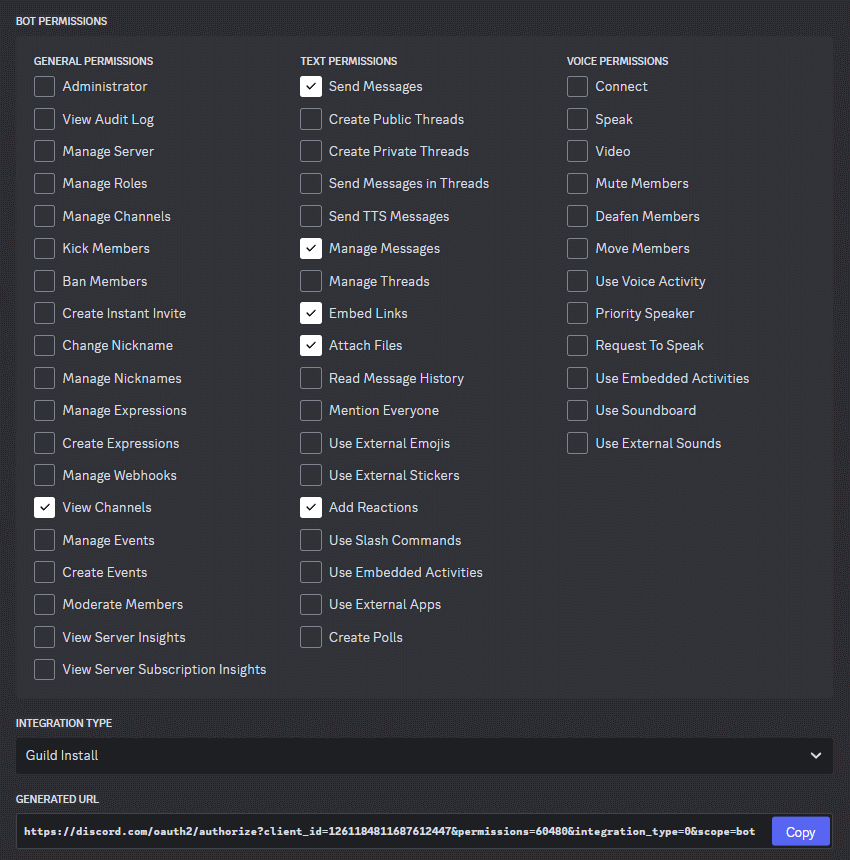
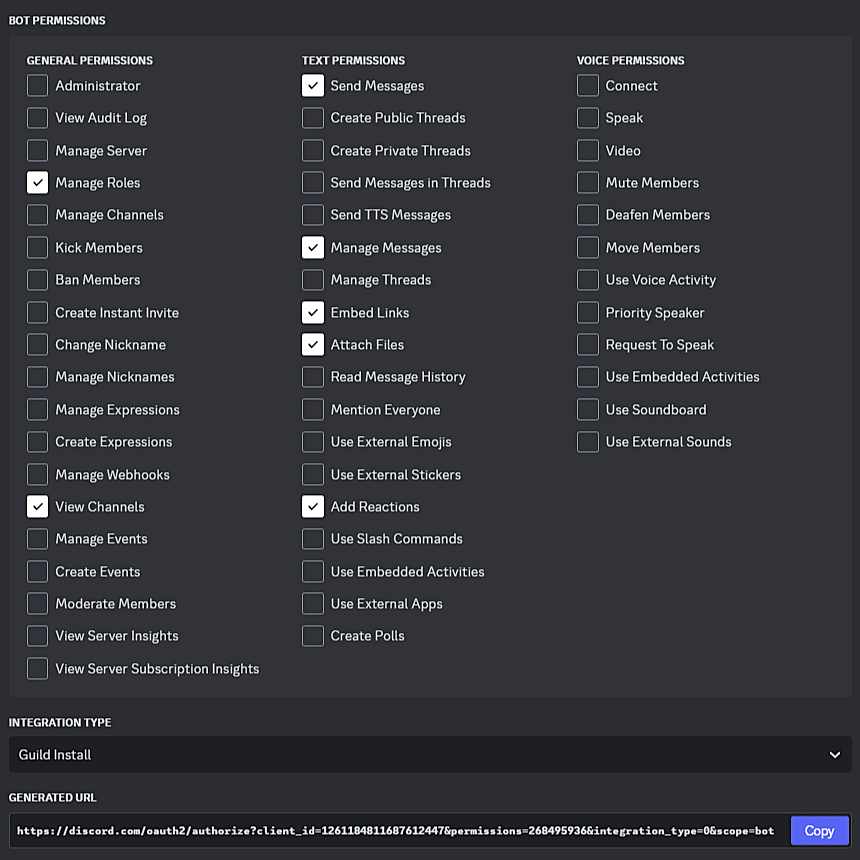
Finished discord bot rewards feature

diff --git a/client/discord/src/commons.js b/client/discord/src/commons.js
@@ -213,7 +213,7 @@ export function players($) {
       else { line += '        '; }
       const playerAlias = aliases.findByName(entry.name);
       if (playerAlias) { line += ' @' + playerAlias.discordid; }
-      result.push(line);
+      result.push(line.trim());
     });
     result = util.chunkStringArray(result);
     result = result.map(function(text) {
@@ -262,16 +262,98 @@ export function alias($) {
   }
 }
 
-export async function evaluateRewards(context, httptool, rewards, instance, message) {
-  const [baseurl, now] = [context.config.SERVER_URL, Date.now()];
-  const atfrom = now - 3600000;
-  const atto = now;
-  const result = await Promise.all([
-    httptool.getJson(pstats.queryLastEvent(instance, atfrom), baseurl),
-    httptool.getJson(pstats.queryEvents(instance, atfrom, atto), baseurl)]);
-  console.log(JSON.stringify(result));
-  util.reactSuccess(message);
+/* eslint-disable max-lines-per-function */
+/* eslint-disable max-depth */
+export async function evaluateRewards(context, httptool, aliases, rewards, instance, message) {
+  const [now, baseurl, prelog] = [Date.now(), context.config.SERVER_URL, '`' + instance + '` '];
+  let schemes = rewards.list();
+  if (schemes.length === 0) return;
+  util.reactWait(message);
+  const [membersMap, roleMap, activityMap] = [{}, {}, {}];
+  const allMembers = await message.guild.members.fetch();  // Fetch all members first to populate cache
+  allMembers.forEach(function(member) { membersMap[member.id] = member; });
+  for (const scheme of schemes) {  // Gather roles and thier members by snowflake
+    if (!cutil.hasProp(roleMap, scheme.snowflake)) {
+      await cutil.sleep(1000);
+      const role = await message.guild.roles.fetch(scheme.snowflake);
+      let schemeRole = null;
+      if (role) {
+        schemeRole = { role: role };
+        schemeRole.orig = role.members.map(function(member) { return member.id; });
+        schemeRole.members = [...schemeRole.orig];
+      } else {
+        message.channel.send(prelog + '❗ Role `@' + scheme.roleid + '` not found');
+      }
+      roleMap[scheme.snowflake] = schemeRole;
+    }
+  }
+  for (const snowflake of Object.keys(roleMap)) {  // Delete invalid roles
+    if (!roleMap[snowflake]) { delete roleMap[snowflake]; }
+  }
+  schemes = schemes.filter(function(scheme) {  // Remove schemes with invalid role
+    return Object.keys(roleMap).includes(scheme.snowflake);
+  });
+  if (schemes.length === 0) return;
+  for (const scheme of schemes) {  // Gather activity by range
+    if (!cutil.hasProp(activityMap, scheme.range)) {
+      const atfrom = now - cutil.rangeCodeToMillis(scheme.range);
+      let results = {};
+      [results.lastevent, results.events] = await Promise.all([
+        httptool.getJson(pstats.queryLastEvent(instance, atfrom), baseurl),
+        httptool.getJson(pstats.queryEvents(instance, atfrom, now), baseurl)]);
+      results = pstats.extractActivity(results);
+      activityMap[scheme.range] = cutil.hasProp(results.results, instance) ? results.results[instance].players : [];
+      activityMap[scheme.range].forEach(function(record) { record.alias = aliases.findByName(record.player); });
+    }
+  }
+  schemes.reverse();  // Schemes higher in list have precedence over lower
+  schemes.forEach(function(scheme) {  // Update role members based on reward scheme and activity
+    const [schemeRole, schemeThreshold] = [roleMap[scheme.snowflake], cutil.rangeCodeToMillis(scheme.threshold)];
+    const recordedMembers = [];
+    activityMap[scheme.range].forEach(function(record, index) {
+      if (record.alias) {
+        recordedMembers.push(record.alias.snowflake);
+        let give = scheme.type === 'top' && index < schemeThreshold;
+        give ||= scheme.type === 'played' && record.uptime >= schemeThreshold;
+        give &&= scheme.action === 'give' && !schemeRole.members.includes(record.alias.snowflake);
+        let take = scheme.type === 'top' && index >= schemeThreshold;
+        take ||= scheme.type === 'played' && record.uptime < schemeThreshold;
+        take &&= scheme.action === 'take' && schemeRole.members.includes(record.alias.snowflake);
+        if (give) {  // Add member to role if above threshold
+          schemeRole.members.push(record.alias.snowflake);
+        } else if (take) {  // Remove member from role if below threshold
+          schemeRole.members = schemeRole.members.filter(function(member) { return member != record.alias.snowflake; });
+        }
+      }
+    });
+    if (scheme.action === 'take') {  // Remove member from role if not in activity
+      schemeRole.members = schemeRole.members.filter(function(member) { return recordedMembers.includes(member); });
+    }
+  });
+  for (const schemeRole of Object.values(roleMap)) { // Apply roles based on new member list
+    schemeRole.gives = schemeRole.members.filter(function(member) { return !schemeRole.orig.includes(member); });
+    schemeRole.takes = schemeRole.orig.filter(function(member) { return !schemeRole.members.includes(member); });
+    for (const roleChange of [[false, schemeRole.takes], [true, schemeRole.gives]]) {
+      for (const member of roleChange[1]) {
+        const discordid = aliases.findByKey(member).discordid;
+        await cutil.sleep(1000);
+        if (cutil.hasProp(membersMap, member)) {
+          if (roleChange[0]) {
+            await membersMap[member].roles.add(schemeRole.role);
+            message.channel.send(prelog + '🏅 `@' + discordid + '` 👍 `@' + schemeRole.role.name + '`');
+          } else {
+            await membersMap[member].roles.remove(schemeRole.role);
+            message.channel.send(prelog + '🏅 `@' + discordid + '` 👎 `@' + schemeRole.role.name + '`');
+          }
+        } else {
+          message.channel.send(prelog + '❗ Alias `@' + discordid + '` not found');
+        }
+      }
+    }
+  }
 }
+/* eslint-enable max-depth */
+/* eslint-enable max-lines-per-function */
 
 export function reward($) {
   const [context, rewards, message, data] = [$.context, $.rewards, $.message, [...$.data]];
@@ -293,14 +375,24 @@ export function reward($) {
         util.reactSuccess(message);
       })
       .catch(function(error) { logger.error(error, message); });
+  } else if (cmd === 'move') {
+    if (data.length != 2) return util.reactUnknown(message);
+    if (!rewards.move(data[0], data[1])) return util.reactError(message);
+    rewards.save();
+    util.reactSuccess(message);
   } else if (cmd === 'remove') {
     if (data.length != 1) return util.reactUnknown(message);
     if (!rewards.remove(data[0])) return util.reactError(message);
     rewards.save();
     util.reactSuccess(message);
   } else if (cmd === 'evaluate') {
-    evaluateRewards(context, $.httptool, rewards, $.instance, message)
-      .catch(function(error) { logger.error(error, message); });
+    evaluateRewards(context, $.httptool, $.aliases, rewards, $.instance, message)
+      .then(function() {
+        util.rmReacts(message, util.reactSuccess, logger.error);
+      })
+      .catch(function(error) {
+        util.rmReacts(message, function() { logger.error(error, message); }, logger.error);
+      });
   } else {
     util.reactUnknown(message);
   }
@@ -388,9 +480,9 @@ export function activity($) {
             }).player.length);
             text.push(...results.players.map(function(record) {
               const playerAlias = aliases.findByName(record.player);
-              return record.player.padEnd(plen) +
-                cutil.humanDuration(record.uptime).padEnd(12) +
-                (playerAlias ? ' @' + playerAlias.discordid : '');
+              let line = record.player.padEnd(plen) + cutil.humanDuration(record.uptime).padEnd(12);
+              if (playerAlias) { line += ' @' + playerAlias.discordid; }
+              return line.trim();
             }));
           } else {
             text.push('No player activity found');

diff --git a/client/discord/src/helptext.js b/client/discord/src/helptext.js
@@ -42,14 +42,15 @@ export const reward = [
   '  played|top   : Choose to reward based on time played or ranking',
   '  {threshold}  : Threshold to check for reward evaluation',
   '  {range}      : Time range for player activity query',
+  'move {id} {±#} : Move reward by id up or down list',
   'remove {id}    : Remove reward by id as shown in list',
   'evaluate       : Process players and allocate reward roles',
   '```', 'Examples...',
   'a) Give @HighAchiever role if ranked top 3 player in last 7 days',
   '`!reward add give @HighAchiever top 3 7d`',
-  'a) Give @Battler role if played more than 5 hours in last 7 days',
+  'b) Give @Battler role if played more than 5 hours in last 7 days',
   '`!reward add give @Battler played 5h 7d`',
-  'a) Take away @Battler role if played less than 1 hour in last 30 days',
+  'c) Take away @Battler role if played less than 1 hour in last 30 days',
   '`!reward add take @Battler played 1h 30d`'
 ];
 
@@ -57,7 +58,7 @@ export const activity = [
   'Activity Reporting. Provide the following query parameters...', '```',
   'instance        : Report instance activity instead of player activity',
   'from={date}     : From date in ISO 8601 format YYYY-MM-DDThh:mm:ss',
-  '                  or days {n}D prior, or hours {n}H prior to date',
+  '                  or days {#}D prior, or hours {#}H prior to date',
   'to={date}       : To date in ISO 8601 format YYYY-MM-DDThh:mm:ss',
   '                  or preset "LD" Last Day, "LM" Last Month, "TD" This Month',
   'tz={timezone}   : Timezone as ±{hh} or ±{hh}:{mm} default is server tz',

diff --git a/client/web/src/routes/guides/discord/setup/DiscordBotSetupGuide.svelte b/client/web/src/routes/guides/discord/setup/DiscordBotSetupGuide.svelte
@@ -179,17 +179,19 @@
   <p><span class="step-title"></span>
     Scroll down the bot settings to find the
     <span class="has-text-weight-bold">PUBLIC BOT</span>
-    switch and turn it OFF. Scroll down further to find the
+    switch and turn it OFF. Scroll further to find the
+    <span class="has-text-weight-bold">SERVER MEMBERS INTENT</span>
+    and
     <span class="has-text-weight-bold">MESSAGE CONTENT INTENT</span>
-    switch and turn it ON. Then click
+    switches and turn both ON. Then click
     <span class="has-text-weight-bold">Save Changes</span>
     button.
   </p>
-  <figure class="image max-1028">
+  <figure class="image max-1024">
     <img src={surl('/assets/guides/discord/setup/make_bot_private.png')}
          alt="Make Bot Private" loading="lazy" />
   </figure>
-  <figure class="image max-1028">
+  <figure class="image max-1024">
     <img src={surl('/assets/guides/discord/setup/allow_receive_messages.png')}
          alt="Allow Receive Messages" loading="lazy" />
   </figure>
@@ -220,7 +222,7 @@
     <span class="has-text-weight-bold">Copy</span>
     button to copy the generated invite URL.
   </p>
-  <figure class="image max-850">
+  <figure class="image max-860">
     <img src={surl('/assets/guides/discord/setup/bot_invite_perms.png')}
          alt="Choose Bot Perms" loading="lazy" />
   </figure>
@@ -537,8 +539,8 @@
 
 
 <style>
-  figure.max-850 img {
-    max-width: 850px;
+  figure.max-860 img {
+    max-width: 860px;
   }
 
   figure.max-1028 img {

diff --git a/client/discord/src/instances.js b/client/discord/src/instances.js
@@ -144,9 +144,18 @@ function newRewards(context, instance) {
     if (!snowflake || !roleid) return false;
     if (!['give', 'take'].includes(action)) return false;
     if (!['played', 'top'].includes(type)) return false;
-    if (!cutil.rangeCodeToMillis(threshold)) return false;
+    if (type === 'played' && !cutil.rangeCodeToMillis(threshold)) return false;
+    if (type === 'top' && !(/^\d*$/).test(threshold)) return false;
     if (!cutil.rangeCodeToMillis(range)) return false;
     data.base.push({ action, snowflake, roleid, type, threshold, range });
+    return true;
+  };
+
+  self.move = function(key, positions) {
+    if (!key || !positions) return false;
+    const result = cutil.moveArrayElement(data.base, key, positions);
+    if (result == data.base) return false;
+    data.base = result;
     return true;
   };
 

diff --git a/client/common/lib/util/util.js b/client/common/lib/util/util.js
@@ -24,6 +24,19 @@ export function floatToPercent(value, rounding = 1, suffix = '%') {
   return suffix ? result + suffix : result;
 }
 
+export function moveArrayElement(value, index, positions) {
+  [index, positions] = [parseInt(index, 10), parseInt(positions, 10)];
+  if (index < 0 || index >= value.length) return value;
+  let newIndex = index + positions;
+  if (newIndex < 0) { newIndex = 0; }
+  else if (newIndex >= value.length) { newIndex = value.length - 1; }
+  if (newIndex === index) return value;
+  const result = [...value];
+  const element = result.splice(index, 1)[0];
+  result.splice(newIndex, 0, element);
+  return result;
+}
+
 function timezoneToMinutes(value) {
   if (!value) return 0;
   if (!isString(value)) return value;

diff --git a/client/discord/src/main.js b/client/discord/src/main.js
@@ -130,7 +130,7 @@ context.signal = context.controller.signal;
 context.instancesService = new instances.Service(context);
 context.client = new Client({
   intents: [
-    GatewayIntentBits.Guilds, GatewayIntentBits.GuildMessages,
+    GatewayIntentBits.Guilds, GatewayIntentBits.GuildMessages, GatewayIntentBits.GuildMembers,
     GatewayIntentBits.MessageContent, GatewayIntentBits.DirectMessages],
   partials: [Partials.Channel]
 });

diff --git a/client/discord/eslint.config.js b/client/discord/eslint.config.js
@@ -14,6 +14,7 @@ export default [
   {
     rules: {
       'prefer-destructuring': 1,
+      'require-atomic-updates': 1,
       'no-plusplus': [2, { 'allowForLoopAfterthoughts': true }],
       'no-warning-comments': 0,
       'curly': 0,
